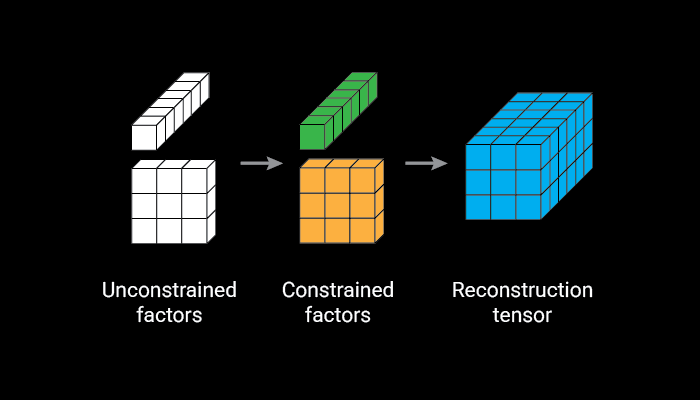
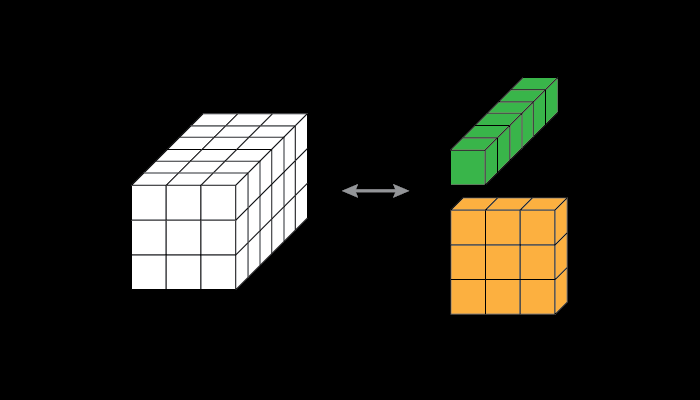
Deploying to gh-pages from @ nbasargin/homepage@248bd1ccb05bdc1de8436b87def406dcd157e45c 🚀

Changed region(s): [[0.15, 0.18, 0.87, 0.81], [0.39, 0.69, 0.57, 0.81]]

diff --git a/styles-MK7LELYN.css b/styles-MK7LELYN.css
@@ -1,0 +1,1 @@
+html{--mat-sys-background: #101414;--mat-sys-error: #ffb4ab;--mat-sys-error-container: #93000a;--mat-sys-inverse-on-surface: #2d3131;--mat-sys-inverse-primary: #006a6a;--mat-sys-inverse-surface: #e0e3e2;--mat-sys-on-background: #e0e3e2;--mat-sys-on-error: #690005;--mat-sys-on-error-container: #ffdad6;--mat-sys-on-primary: #003737;--mat-sys-on-primary-container: #00fbfb;--mat-sys-on-primary-fixed: #002020;--mat-sys-on-primary-fixed-variant: #004f4f;--mat-sys-on-secondary: #1b3534;--mat-sys-on-secondary-container: #cce8e7;--mat-sys-on-secondary-fixed: #051f1f;--mat-sys-on-secondary-fixed-variant: #324b4b;--mat-sys-on-surface: #e0e3e2;--mat-sys-on-surface-variant: #dae5e4;--mat-sys-on-tertiary: #502400;--mat-sys-on-tertiary-container: #ffdcc7;--mat-sys-on-tertiary-fixed: #311300;--mat-sys-on-tertiary-fixed-variant: #723600;--mat-sys-outline: #889392;--mat-sys-outline-variant: #3f4948;--mat-sys-primary: #00dddd;--mat-sys-primary-container: #004f4f;--mat-sys-primary-fixed: #00fbfb;--mat-sys-primary-fixed-dim: #00dddd;--mat-sys-scrim: #000000;--mat-sys-secondary: #b0cccb;--mat-sys-secondary-container: #324b4b;--mat-sys-secondary-fixed: #cce8e7;--mat-sys-secondary-fixed-dim: #b0cccb;--mat-sys-shadow: #000000;--mat-sys-surface: #101414;--mat-sys-surface-bright: #363a39;--mat-sys-surface-container: #1c2020;--mat-sys-surface-container-high: #272b2a;--mat-sys-surface-container-highest: #363a39;--mat-sys-surface-container-low: #191c1c;--mat-sys-surface-container-lowest: #0b0f0e;--mat-sys-surface-dim: #101414;--mat-sys-surface-tint: #00dddd;--mat-sys-surface-variant: #3f4948;--mat-sys-tertiary: #ffb787;--mat-sys-tertiary-container: #723600;--mat-sys-tertiary-fixed: #ffdcc7;--mat-sys-tertiary-fixed-dim: #ffb787;--mat-sys-neutral-variant20: #293232;--mat-sys-neutral10: #191c1c}html{--mat-sys-body-large: 400 1rem / 1.5rem Roboto;--mat-sys-body-large-font: Roboto;--mat-sys-body-large-line-height: 1.5rem;--mat-sys-body-large-size: 1rem;--mat-sys-body-large-tracking: .031rem;--mat-sys-body-large-weight: 400;--mat-sys-body-medium: 400 .875rem / 1.25rem Roboto;--mat-sys-body-medium-font: Roboto;--mat-sys-body-medium-line-height: 1.25rem;--mat-sys-body-medium-size: .875rem;--mat-sys-body-medium-tracking: .016rem;--mat-sys-body-medium-weight: 400;--mat-sys-body-small: 400 .75rem / 1rem Roboto;--mat-sys-body-small-font: Roboto;--mat-sys-body-small-line-height: 1rem;--mat-sys-body-small-size: .75rem;--mat-sys-body-small-tracking: .025rem;--mat-sys-body-small-weight: 400;--mat-sys-display-large: 400 3.562rem / 4rem Roboto;--mat-sys-display-large-font: Roboto;--mat-sys-display-large-line-height: 4rem;--mat-sys-display-large-size: 3.562rem;--mat-sys-display-large-tracking: -.016rem;--mat-sys-display-large-weight: 400;--mat-sys-display-medium: 400 2.812rem / 3.25rem Roboto;--mat-sys-display-medium-font: Roboto;--mat-sys-display-medium-line-height: 3.25rem;--mat-sys-display-medium-size: 2.812rem;--mat-sys-display-medium-tracking: 0;--mat-sys-display-medium-weight: 400;--mat-sys-display-small: 400 2.25rem / 2.75rem Roboto;--mat-sys-display-small-font: Roboto;--mat-sys-display-small-line-height: 2.75rem;--mat-sys-display-small-size: 2.25rem;--mat-sys-display-small-tracking: 0;--mat-sys-display-small-weight: 400;--mat-sys-headline-large: 400 2rem / 2.5rem Roboto;--mat-sys-headline-large-font: Roboto;--mat-sys-headline-large-line-height: 2.5rem;--mat-sys-headline-large-size: 2rem;--mat-sys-headline-large-tracking: 0;--mat-sys-headline-large-weight: 400;--mat-sys-headline-medium: 400 1.75rem / 2.25rem Roboto;--mat-sys-headline-medium-font: Roboto;--mat-sys-headline-medium-line-height: 2.25rem;--mat-sys-headline-medium-size: 1.75rem;--mat-sys-headline-medium-tracking: 0;--mat-sys-headline-medium-weight: 400;--mat-sys-headline-small: 400 1.5rem / 2rem Roboto;--mat-sys-headline-small-font: Roboto;--mat-sys-headline-small-line-height: 2rem;--mat-sys-headline-small-size: 1.5rem;--mat-sys-headline-small-tracking: 0;--mat-sys-headline-small-weight: 400;--mat-sys-label-large: 500 .875rem / 1.25rem Roboto;--mat-sys-label-large-font: Roboto;--mat-sys-label-large-line-height: 1.25rem;--mat-sys-label-large-size: .875rem;--mat-sys-label-large-tracking: .006rem;--mat-sys-label-large-weight: 500;--mat-sys-label-large-weight-prominent: 700;--mat-sys-label-medium: 500 .75rem / 1rem Roboto;--mat-sys-label-medium-font: Roboto;--mat-sys-label-medium-line-height: 1rem;--mat-sys-label-medium-size: .75rem;--mat-sys-label-medium-tracking: .031rem;--mat-sys-label-medium-weight: 500;--mat-sys-label-medium-weight-prominent: 700;--mat-sys-label-small: 500 .688rem / 1rem Roboto;--mat-sys-label-small-font: Roboto;--mat-sys-label-small-line-height: 1rem;--mat-sys-label-small-size: .688rem;--mat-sys-label-small-tracking: .031rem;--mat-sys-label-small-weight: 500;--mat-sys-title-large: 400 1.375rem / 1.75rem Roboto;--mat-sys-title-large-font: Roboto;--mat-sys-title-large-line-height: 1.75rem;--mat-sys-title-large-size: 1.375rem;--mat-sys-title-large-tracking: 0;--mat-sys-title-large-weight: 400;--mat-sys-title-medium: 500 1rem / 1.5rem Roboto;--mat-sys-title-medium-font: Roboto;--mat-sys-title-medium-line-height: 1.5rem;--mat-sys-title-medium-size: 1rem;--mat-sys-title-medium-tracking: .009rem;--mat-sys-title-medium-weight: 500;--mat-sys-title-small: 500 .875rem / 1.25rem Roboto;--mat-sys-title-small-font: Roboto;--mat-sys-title-small-line-height: 1.25rem;--mat-sys-title-small-size: .875rem;--mat-sys-title-small-tracking: .006rem;--mat-sys-title-small-weight: 500}.pswp{--pswp-bg: #000;--pswp-placeholder-bg: #222;--pswp-root-z-index: 100000;--pswp-preloader-color: rgba(79, 79, 79, .4);--pswp-preloader-color-secondary: rgba(255, 255, 255, .9);--pswp-icon-color: #fff;--pswp-icon-color-secondary: #4f4f4f;--pswp-icon-stroke-color: #4f4f4f;--pswp-icon-stroke-width: 2px;--pswp-error-text-color: var(--pswp-icon-color)}.pswp{position:fixed;top:0;left:0;width:100%;height:100%;z-index:var(--pswp-root-z-index);display:none;touch-action:none;outline:0;opacity:.003;contain:layout style size;-webkit-tap-highlight-color:rgba(0,0,0,0)}.pswp:focus{outline:0}.pswp *{box-sizing:border-box}.pswp img{max-width:none}.pswp--open{display:block}.pswp,.pswp__bg{transform:translateZ(0);will-change:opacity}.pswp__bg{opacity:.005;background:var(--pswp-bg)}.pswp,.pswp__scroll-wrap{overflow:hidden}.pswp__scroll-wrap,.pswp__bg,.pswp__container,.pswp__item,.pswp__content,.pswp__img,.pswp__zoom-wrap{position:absolute;top:0;left:0;width:100%;height:100%}.pswp__img,.pswp__zoom-wrap{width:auto;height:auto}.pswp--click-to-zoom.pswp--zoom-allowed .pswp__img{cursor:-webkit-zoom-in;cursor:-moz-zoom-in;cursor:zoom-in}.pswp--click-to-zoom.pswp--zoomed-in .pswp__img{cursor:move;cursor:-webkit-grab;cursor:-moz-grab;cursor:grab}.pswp--click-to-zoom.pswp--zoomed-in .pswp__img:active{cursor:-webkit-grabbing;cursor:-moz-grabbing;cursor:grabbing}.pswp--no-mouse-drag.pswp--zoomed-in .pswp__img,.pswp--no-mouse-drag.pswp--zoomed-in .pswp__img:active,.pswp__img{cursor:-webkit-zoom-out;cursor:-moz-zoom-out;cursor:zoom-out}.pswp__container,.pswp__img,.pswp__button,.pswp__counter{-webkit-user-select:none;-moz-user-select:none;-ms-user-select:none;user-select:none}.pswp__item{z-index:1;overflow:hidden}.pswp__hidden{display:none!important}.pswp__content{pointer-events:none}.pswp__content>*{pointer-events:auto}.pswp__error-msg-container{display:grid}.pswp__error-msg{margin:auto;font-size:1em;line-height:1;color:var(--pswp-error-text-color)}.pswp .pswp__hide-on-close{opacity:.005;will-change:opacity;transition:opacity var(--pswp-transition-duration) cubic-bezier(.4,0,.22,1);z-index:10;pointer-events:none}.pswp--ui-visible .pswp__hide-on-close{opacity:1;pointer-events:auto}.pswp__button{position:relative;display:block;width:50px;height:60px;padding:0;margin:0;overflow:hidden;cursor:pointer;background:none;border:0;box-shadow:none;opacity:.85;-webkit-appearance:none;-webkit-touch-callout:none}.pswp__button:hover,.pswp__button:active,.pswp__button:focus{transition:none;padding:0;background:none;border:0;box-shadow:none;opacity:1}.pswp__button:disabled{opacity:.3;cursor:auto}.pswp__icn{fill:var(--pswp-icon-color);color:var(--pswp-icon-color-secondary)}.pswp__icn{position:absolute;top:14px;left:9px;width:32px;height:32px;overflow:hidden;pointer-events:none}.pswp__icn-shadow{stroke:var(--pswp-icon-stroke-color);stroke-width:var(--pswp-icon-stroke-width);fill:none}.pswp__icn:focus{outline:0}div.pswp__img--placeholder,.pswp__img--with-bg{background:var(--pswp-placeholder-bg)}.pswp__top-bar{position:absolute;left:0;top:0;width:100%;height:60px;display:flex;flex-direction:row;justify-content:flex-end;z-index:10;pointer-events:none!important}.pswp__top-bar>*{pointer-events:auto;will-change:opacity}.pswp__button--close{margin-right:6px}.pswp__button--arrow{position:absolute;width:75px;height:100px;top:50%;margin-top:-50px}.pswp__button--arrow:disabled{display:none;cursor:default}.pswp__button--arrow .pswp__icn{top:50%;margin-top:-30px;width:60px;height:60px;background:none;border-radius:0}.pswp--one-slide .pswp__button--arrow{display:none}.pswp--touch .pswp__button--arrow{visibility:hidden}.pswp--has_mouse .pswp__button--arrow{visibility:visible}.pswp__button--arrow--prev{right:auto;left:0}.pswp__button--arrow--next{right:0}.pswp__button--arrow--next .pswp__icn{left:auto;right:14px;transform:scaleX(-1)}.pswp__button--zoom{display:none}.pswp--zoom-allowed .pswp__button--zoom{display:block}.pswp--zoomed-in .pswp__zoom-icn-bar-v{display:none}.pswp__preloader{position:relative;overflow:hidden;width:50px;height:60px;margin-right:auto}.pswp__preloader .pswp__icn{opacity:0;transition:opacity .2s linear;animation:pswp-clockwise .6s linear infinite}.pswp__preloader--active .pswp__icn{opacity:.85}@keyframes pswp-clockwise{0%{transform:rotate(0)}to{transform:rotate(360deg)}}.pswp__counter{height:30px;margin-top:15px;margin-inline-start:20px;font-size:14px;line-height:30px;color:var(--pswp-icon-color);text-shadow:1px 1px 3px var(--pswp-icon-color-secondary);opacity:.85}.pswp--one-slide .pswp__counter{display:none}.pswp__dynamic-caption{color:#fff;position:absolute;width:100%;left:0;top:0;transition:opacity .12s linear!important}.pswp-caption-content{display:none}.pswp__dynamic-caption a{color:#fff}.pswp__dynamic-caption--faded{opacity:0!important}.pswp__dynamic-caption--aside{width:auto;max-width:300px;padding:20px 15px 20px 20px;margin-top:70px}.pswp__dynamic-caption--below{width:auto;max-width:700px;padding:15px 0 0}.pswp__dynamic-caption--on-hor-edge{padding-left:15px;padding-right:15px}.pswp__dynamic-caption--mobile{width:100%;background:#[phone redacted];padding:10px 15px;right:0;bottom:0;top:auto!important;left:0!important}:root{--glob-spacing-xs: 4px;--glob-spacing-s: 8px;--glob-spacing-m: 16px;--glob-spacing-l: 24px;--card-min-width: 250px;--card-max-width: 350px;--glob-header-height: 64px;--glob-page-width: 1200px;--glob-page-padding: var(--glob-spacing-l);--glob-narrow-section-width: 800px}@media screen and (max-width: 600px){:root{--glob-page-padding: var(--glob-spacing-m)}}*{box-sizing:border-box}html{color-scheme:dark;scrollbar-width:thin;width:100%;min-height:100%;max-width:100%}html{--mat-sys-background: light-dark(#f7faf9, #101414);--mat-sys-error: light-dark(#ba1a1a, #ffb4ab);--mat-sys-error-container: light-dark(#ffdad6, #93000a);--mat-sys-inverse-on-surface: light-dark(#eff1f0, #2d3131);--mat-sys-inverse-primary: light-dark(#00dddd, #006a6a);--mat-sys-inverse-surface: light-dark(#2d3131, #e0e3e2);--mat-sys-on-background: light-dark(#191c1c, #e0e3e2);--mat-sys-on-error: light-dark(#ffffff, #690005);--mat-sys-on-error-container: light-dark(#410002, #ffdad6);--mat-sys-on-primary: light-dark(#ffffff, #003737);--mat-sys-on-primary-container: light-dark(#002020, #00fbfb);--mat-sys-on-primary-fixed: light-dark(#002020, #002020);--mat-sys-on-primary-fixed-variant: light-dark(#004f4f, #004f4f);--mat-sys-on-secondary: light-dark(#ffffff, #1b3534);--mat-sys-on-secondary-container: light-dark(#051f1f, #cce8e7);--mat-sys-on-secondary-fixed: light-dark(#051f1f, #051f1f);--mat-sys-on-secondary-fixed-variant: light-dark(#324b4b, #324b4b);--mat-sys-on-surface: light-dark(#191c1c, #e0e3e2);--mat-sys-on-surface-variant: light-dark(#3f4948, #dae5e4);--mat-sys-on-tertiary: light-dark(#ffffff, #003737);--mat-sys-on-tertiary-container: light-dark(#002020, #00fbfb);--mat-sys-on-tertiary-fixed: light-dark(#002020, #002020);--mat-sys-on-tertiary-fixed-variant: light-dark(#004f4f, #004f4f);--mat-sys-outline: light-dark(#6f7979, #889392);--mat-sys-outline-variant: light-dark(#bec9c8, #3f4948);--mat-sys-primary: light-dark(#006a6a, #00dddd);--mat-sys-primary-container: light-dark(#00fbfb, #004f4f);--mat-sys-primary-fixed: light-dark(#00fbfb, #00fbfb);--mat-sys-primary-fixed-dim: light-dark(#00dddd, #00dddd);--mat-sys-scrim: light-dark(#000000, #000000);--mat-sys-secondary: light-dark(#4a6363, #b0cccb);--mat-sys-secondary-container: light-dark(#cce8e7, #324b4b);--mat-sys-secondary-fixed: light-dark(#cce8e7, #cce8e7);--mat-sys-secondary-fixed-dim: light-dark(#b0cccb, #b0cccb);--mat-sys-shadow: light-dark(#000000, #000000);--mat-sys-surface: light-dark(#f7faf9, #101414);--mat-sys-surface-bright: light-dark(#f7faf9, #363a39);--mat-sys-surface-container: light-dark(#ebefed, #1c2020);--mat-sys-surface-container-high: light-dark(#e6e9e7, #272b2a);--mat-sys-surface-container-highest: light-dark(#e0e3e2, #363a39);--mat-sys-surface-container-low: light-dark(#f1f4f3, #191c1c);--mat-sys-surface-container-lowest: light-dark(#ffffff, #0b0f0e);--mat-sys-surface-dim: light-dark(#d7dbd9, #101414);--mat-sys-surface-tint: light-dark(#006a6a, #00dddd);--mat-sys-surface-variant: light-dark(#dae5e4, #3f4948);--mat-sys-tertiary: light-dark(#006a6a, #00dddd);--mat-sys-tertiary-container: light-dark(#00fbfb, #004f4f);--mat-sys-tertiary-fixed: light-dark(#00fbfb, #00fbfb);--mat-sys-tertiary-fixed-dim: light-dark(#00dddd, #00dddd);--mat-sys-neutral-variant20: #293232;--mat-sys-neutral10: #191c1c}html{--mat-sys-level0: 0px 0px 0px 0px rgba(0, 0, 0, .2), 0px 0px 0px 0px rgba(0, 0, 0, .14), 0px 0px 0px 0px rgba(0, 0, 0, .12)}html{--mat-sys-level1: 0px 2px 1px -1px rgba(0, 0, 0, .2), 0px 1px 1px 0px rgba(0, 0, 0, .14), 0px 1px 3px 0px rgba(0, 0, 0, .12)}html{--mat-sys-level2: 0px 3px 3px -2px rgba(0, 0, 0, .2), 0px 3px 4px 0px rgba(0, 0, 0, .14), 0px 1px 8px 0px rgba(0, 0, 0, .12)}html{--mat-sys-level3: 0px 3px 5px -1px rgba(0, 0, 0, .2), 0px 6px 10px 0px rgba(0, 0, 0, .14), 0px 1px 18px 0px rgba(0, 0, 0, .12)}html{--mat-sys-level4: 0px 5px 5px -3px rgba(0, 0, 0, .2), 0px 8px 10px 1px rgba(0, 0, 0, .14), 0px 3px 14px 2px rgba(0, 0, 0, .12)}html{--mat-sys-level5: 0px 7px 8px -4px rgba(0, 0, 0, .2), 0px 12px 17px 2px rgba(0, 0, 0, .14), 0px 5px 22px 4px rgba(0, 0, 0, .12)}html{--mat-sys-body-large: 400 1rem / 1.5rem Fira Sans;--mat-sys-body-large-font: Fira Sans;--mat-sys-body-large-line-height: 1.5rem;--mat-sys-body-large-size: 1rem;--mat-sys-body-large-tracking: .031rem;--mat-sys-body-large-weight: 400;--mat-sys-body-medium: 400 .875rem / 1.25rem Fira Sans;--mat-sys-body-medium-font: Fira Sans;--mat-sys-body-medium-line-height: 1.25rem;--mat-sys-body-medium-size: .875rem;--mat-sys-body-medium-tracking: .016rem;--mat-sys-body-medium-weight: 400;--mat-sys-body-small: 400 .75rem / 1rem Fira Sans;--mat-sys-body-small-font: Fira Sans;--mat-sys-body-small-line-height: 1rem;--mat-sys-body-small-size: .75rem;--mat-sys-body-small-tracking: .025rem;--mat-sys-body-small-weight: 400;--mat-sys-display-large: 400 3.562rem / 4rem Fira Sans;--mat-sys-display-large-font: Fira Sans;--mat-sys-display-large-line-height: 4rem;--mat-sys-display-large-size: 3.562rem;--mat-sys-display-large-tracking: -.016rem;--mat-sys-display-large-weight: 400;--mat-sys-display-medium: 400 2.812rem / 3.25rem Fira Sans;--mat-sys-display-medium-font: Fira Sans;--mat-sys-display-medium-line-height: 3.25rem;--mat-sys-display-medium-size: 2.812rem;--mat-sys-display-medium-tracking: 0;--mat-sys-display-medium-weight: 400;--mat-sys-display-small: 400 2.25rem / 2.75rem Fira Sans;--mat-sys-display-small-font: Fira Sans;--mat-sys-display-small-line-height: 2.75rem;--mat-sys-display-small-size: 2.25rem;--mat-sys-display-small-tracking: 0;--mat-sys-display-small-weight: 400;--mat-sys-headline-large: 400 2rem / 2.5rem Fira Sans;--mat-sys-headline-large-font: Fira Sans;--mat-sys-headline-large-line-height: 2.5rem;--mat-sys-headline-large-size: 2rem;--mat-sys-headline-large-tracking: 0;--mat-sys-headline-large-weight: 400;--mat-sys-headline-medium: 400 1.75rem / 2.25rem Fira Sans;--mat-sys-headline-medium-font: Fira Sans;--mat-sys-headline-medium-line-height: 2.25rem;--mat-sys-headline-medium-size: 1.75rem;--mat-sys-headline-medium-tracking: 0;--mat-sys-headline-medium-weight: 400;--mat-sys-headline-small: 400 1.5rem / 2rem Fira Sans;--mat-sys-headline-small-font: Fira Sans;--mat-sys-headline-small-line-height: 2rem;--mat-sys-headline-small-size: 1.5rem;--mat-sys-headline-small-tracking: 0;--mat-sys-headline-small-weight: 400;--mat-sys-label-large: 500 .875rem / 1.25rem Fira Sans;--mat-sys-label-large-font: Fira Sans;--mat-sys-label-large-line-height: 1.25rem;--mat-sys-label-large-size: .875rem;--mat-sys-label-large-tracking: .006rem;--mat-sys-label-large-weight: 500;--mat-sys-label-large-weight-prominent: 700;--mat-sys-label-medium: 500 .75rem / 1rem Fira Sans;--mat-sys-label-medium-font: Fira Sans;--mat-sys-label-medium-line-height: 1rem;--mat-sys-label-medium-size: .75rem;--mat-sys-label-medium-tracking: .031rem;--mat-sys-label-medium-weight: 500;--mat-sys-label-medium-weight-prominent: 700;--mat-sys-label-small: 500 .688rem / 1rem Fira Sans;--mat-sys-label-small-font: Fira Sans;--mat-sys-label-small-line-height: 1rem;--mat-sys-label-small-size: .688rem;--mat-sys-label-small-tracking: .031rem;--mat-sys-label-small-weight: 500;--mat-sys-title-large: 400 1.375rem / 1.75rem Fira Sans;--mat-sys-title-large-font: Fira Sans;--mat-sys-title-large-line-height: 1.75rem;--mat-sys-title-large-size: 1.375rem;--mat-sys-title-large-tracking: 0;--mat-sys-title-large-weight: 400;--mat-sys-title-medium: 500 1rem / 1.5rem Fira Sans;--mat-sys-title-medium-font: Fira Sans;--mat-sys-title-medium-line-height: 1.5rem;--mat-sys-title-medium-size: 1rem;--mat-sys-title-medium-tracking: .009rem;--mat-sys-title-medium-weight: 500;--mat-sys-title-small: 500 .875rem / 1.25rem Fira Sans;--mat-sys-title-small-font: Fira Sans;--mat-sys-title-small-line-height: 1.25rem;--mat-sys-title-small-size: .875rem;--mat-sys-title-small-tracking: .006rem;--mat-sys-title-small-weight: 500}html{--mat-sys-corner-extra-large: 28px;--mat-sys-corner-extra-large-top: 28px 28px 0 0;--mat-sys-corner-extra-small: 4px;--mat-sys-corner-extra-small-top: 4px 4px 0 0;--mat-sys-corner-full: 9999px;--mat-sys-corner-large: 16px;--mat-sys-corner-large-end: 0 16px 16px 0;--mat-sys-corner-large-start: 16px 0 0 16px;--mat-sys-corner-large-top: 16px 16px 0 0;--mat-sys-corner-medium: 12px;--mat-sys-corner-none: 0;--mat-sys-corner-small: 8px}html{--mat-sys-dragged-state-layer-opacity: .16;--mat-sys-focus-state-layer-opacity: .12;--mat-sys-hover-state-layer-opacity: .08;--mat-sys-pressed-state-layer-opacity: .12}body{background:var(--mat-sys-surface);color:var(--mat-sys-on-surface);position:relative;font-family:Fira Sans,Helvetica Neue,sans-serif;overflow-x:hidden;margin:0;padding:0;width:100%;min-height:100%}.grid-narrow{display:grid;grid-template-columns:1fr min(var(--glob-narrow-section-width),100% - var(--glob-page-padding) * 2) 1fr;grid-column-gap:var(--glob-page-padding)}.grid-narrow .center-col{grid-column:2}.grid-wide{display:grid;grid-template-columns:1fr min(var(--glob-page-width),100% - var(--glob-page-padding) * 2) 1fr;grid-column-gap:var(--glob-page-padding)}.grid-wide .center-col{grid-column:2}.centered{text-align:center}.mb-s{margin-bottom:var(--glob-spacing-s)}.mb-m{margin-bottom:var(--glob-spacing-m)}.mb-l{margin-bottom:var(--glob-spacing-l)}.mt-s{margin-top:var(--glob-spacing-s)}.mt-m{margin-top:var(--glob-spacing-m)}.mt-l{margin-top:var(--glob-spacing-l)}.pb-l{padding-bottom:var(--glob-spacing-l)}.pt-l{padding-top:var(--glob-spacing-l)}.block-title{display:block;font-size:24px;font-weight:700;font-variant:small-caps}.block-subtitle{display:block;font-size:18px;font-weight:700}.button-row{display:flex;flex-flow:row wrap;gap:var(--glob-spacing-s)}.img-rounded{border-radius:var(--mat-sys-corner-medium)}.img-h200{max-height:200px;max-width:100%}.img-h250{max-height:250px;max-width:100%}.img-h300{max-height:300px;max-width:100%}.img-h400{max-height:400px;max-width:100%}.img-h500{max-height:500px;max-width:100%}.warning-note{color:var(--mat-sys-error)}.mat-elevation-2{box-shadow:0 3px 1px -2px #0003,0 2px 2px #[phone redacted],0 1px 5px #0000001f}.mat-elevation-4{box-shadow:0 2px 4px -1px #0003,0 4px 5px #[phone redacted],0 1px 10px #0000001f}.mat-elevation-8{box-shadow:0 5px 5px -3px #0003,0 8px 10px 1px #[phone redacted],0 3px 14px 2px #0000001f}.mat-elevation-12{box-shadow:0 7px 8px -4px #0003,0 12px 17px 2px #[phone redacted],0 5px 22px 4px #0000001f}.mat-elevation-16{box-shadow:0 8px 10px -5px #0003,0 16px 24px 2px #[phone redacted],0 6px 30px 5px #0000001f}.mat-elevation-24{box-shadow:0 11px 15px -7px #0003,0 24px 38px 3px #[phone redacted],0 9px 46px 8px #0000001f}.pswp__dynamic-caption--below{max-width:unset;text-align:center;padding:var(--glob-spacing-m) 0 var(--glob-spacing-m)}